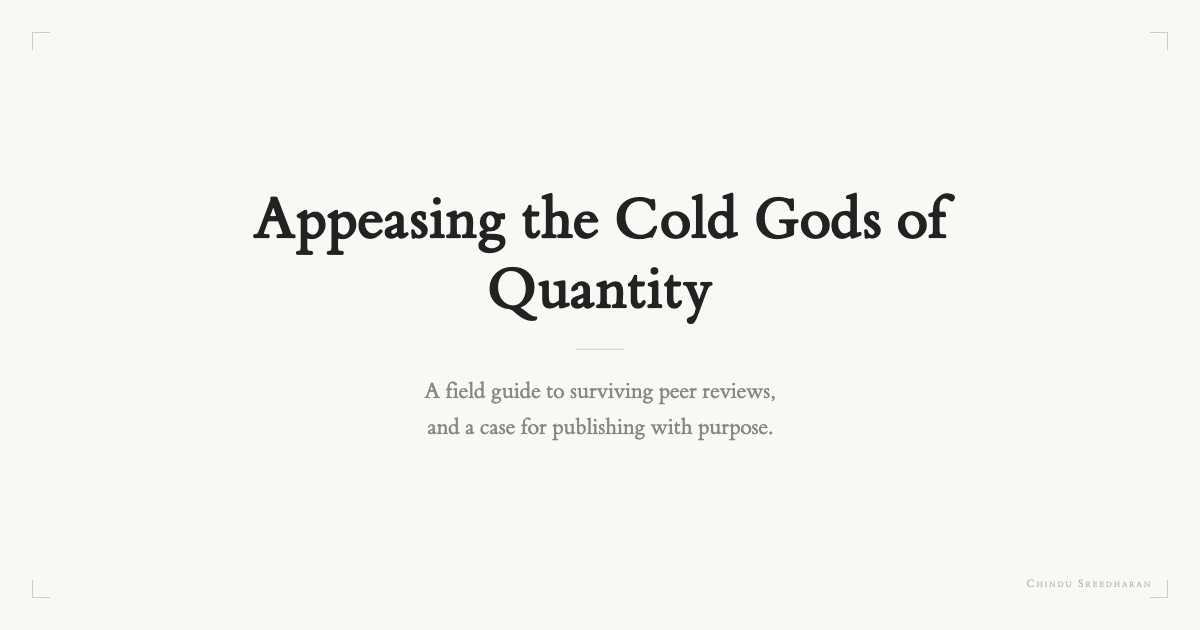
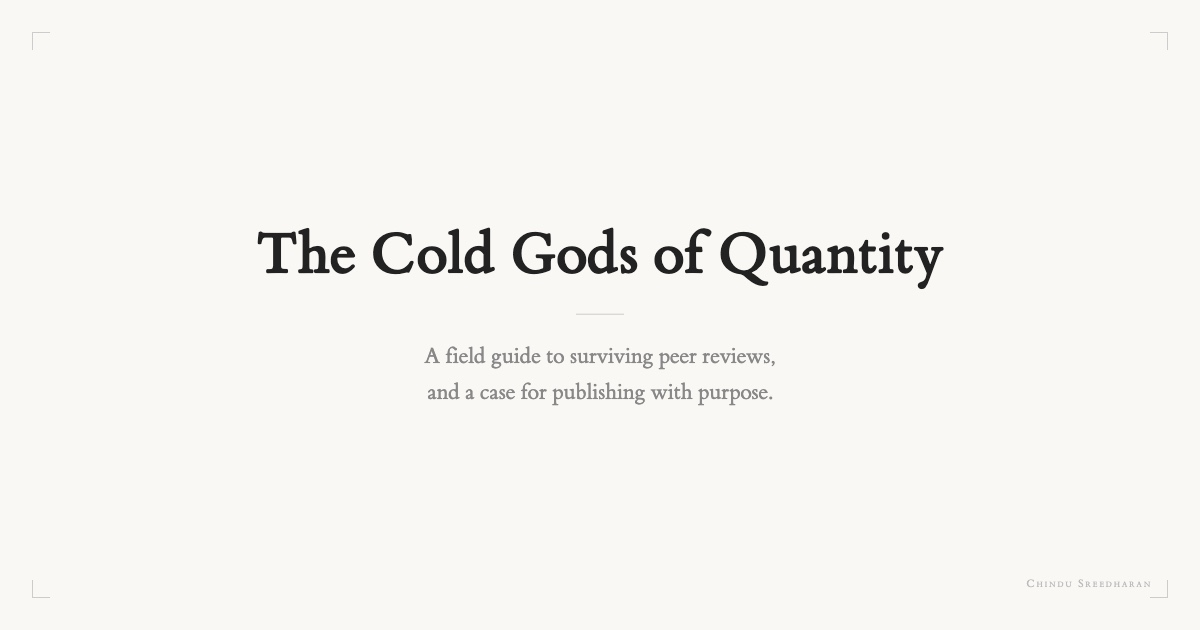
Edit: retitle to The Cold Gods of Quantity
The gerund announced the activity before the reader met the image and
pre-spent the closing line. A noun phrase also matches the other two
pieces. URL slug left unchanged so the existing link keeps working.

Changed region(s): [[0.2158, 0.3016, 0.8017, 0.5127], [0.3392, 0.5429, 0.6475, 0.6937]]

diff --git a/appeasing-the-cold-gods-of-quantity/index.html b/appeasing-the-cold-gods-of-quantity/index.html
@@ -1,15 +1,15 @@
 <head>
   <meta charset="UTF-8">
   <meta name="viewport" content="width=device-width, initial-scale=1">
-  <title>Appeasing the Cold Gods of Quantity — Chindu Sreedharan</title>
+  <title>The Cold Gods of Quantity — Chindu Sreedharan</title>
 
-  <meta property="og:title" content="Appeasing the Cold Gods of Quantity" />
+  <meta property="og:title" content="The Cold Gods of Quantity" />
   <meta property="og:url" content="https://chindusree.github.io/appeasing-the-cold-gods-of-quantity/" />
   <meta property="og:image" content="https://chindusree.github.io/appeasing-the-cold-gods-of-quantity/assets/cover.jpg" />
   <meta property="og:description" content="A field guide to surviving peer reviews, and a case for publishing with purpose." />
   <meta property="og:type" content="article" />
   <meta name="twitter:card" content="summary_large_image" />
-  <meta name="twitter:title" content="Appeasing the Cold Gods of Quantity" />
+  <meta name="twitter:title" content="The Cold Gods of Quantity" />
   <meta name="twitter:image" content="https://chindusree.github.io/appeasing-the-cold-gods-of-quantity/assets/cover.jpg" />
   <meta name="twitter:description" content="A field guide to surviving peer reviews, and a case for publishing with purpose." />
 
@@ -252,7 +252,7 @@
 
 <body>
   <header>
-    <h1>Appeasing the Cold Gods of Quantity</h1>
+    <h1>The Cold Gods of Quantity</h1>
     <h2 class="subtitle">A field guide to surviving peer reviews, and a case for publishing with purpose</h2>
 
     <div class="byline">
@@ -418,7 +418,7 @@
 
     <hr style="margin-top: 2rem; border: none; border-top: 1px solid #ccc;" />
     <p style="font-size: 0.8rem; color: #444;">
-      <strong>Cite this as:</strong> Sreedharan, C. (2026) <em>Appeasing the Cold Gods of Quantity: A Field Guide to Surviving Peer Reviews</em>. Available at:
+      <strong>Cite this as:</strong> Sreedharan, C. (2026) <em>The Cold Gods of Quantity: A Field Guide to Surviving Peer Reviews</em>. Available at:
       <a href="https://chindusree.github.io/appeasing-the-cold-gods-of-quantity/">https://chindusree.github.io/appeasing-the-cold-gods-of-quantity/</a>
     </p>
   </footer>

diff --git a/index.html b/index.html
@@ -132,7 +132,7 @@
   <!-- Third piece bottom left -->
   <div class="appease-entry">
     <a href="https://chindusree.github.io/appeasing-the-cold-gods-of-quantity/" class="walk-title">
-      Appeasing the Cold Gods of Quantity
+      The Cold Gods of Quantity
     </a>
     <a href="https://chindusree.github.io/appeasing-the-cold-gods-of-quantity/" class="walk-standfirst" style="text-decoration: none; display: block;">A field guide to surviving peer reviews<br>and a case for publishing with purpose</a>
   </div>

diff --git a/appeasing-the-cold-gods-of-quantity/assets/cover.html b/appeasing-the-cold-gods-of-quantity/assets/cover.html
@@ -55,7 +55,7 @@ body {
   <div class="corner bl"></div>
   <div class="corner br"></div>
   <div class="content">
-    <div class="title">Appeasing the Cold Gods of Quantity</div>
+    <div class="title">The Cold Gods of Quantity</div>
     <div class="rule"></div>
     <div class="standfirst">A field guide to surviving peer reviews,<br>and a case for publishing with purpose.</div>
   </div>
